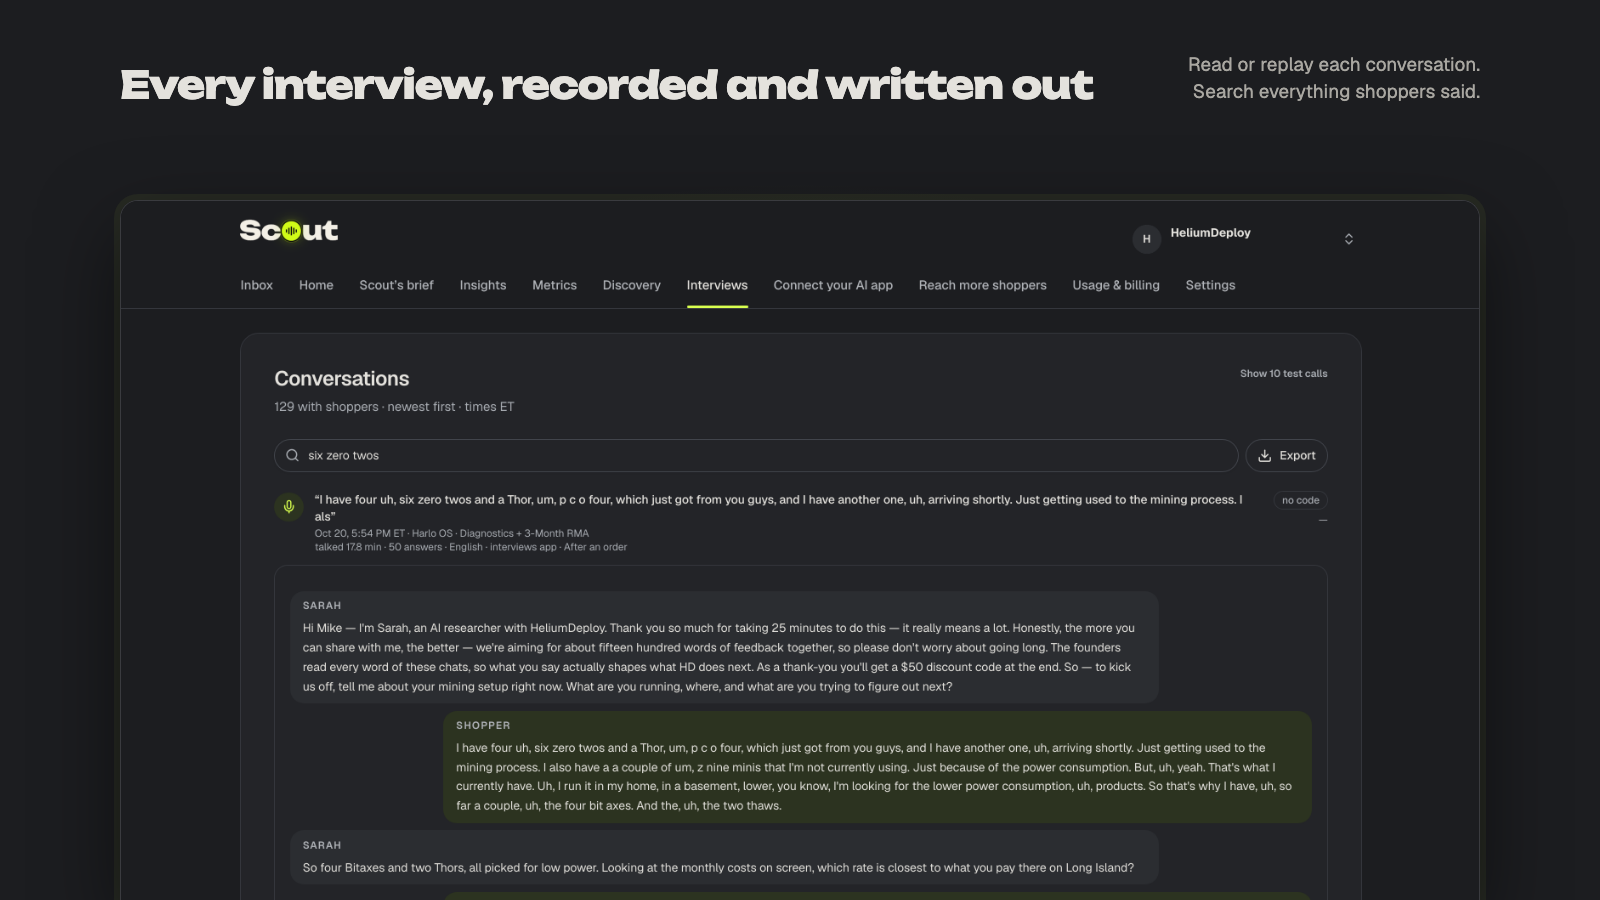
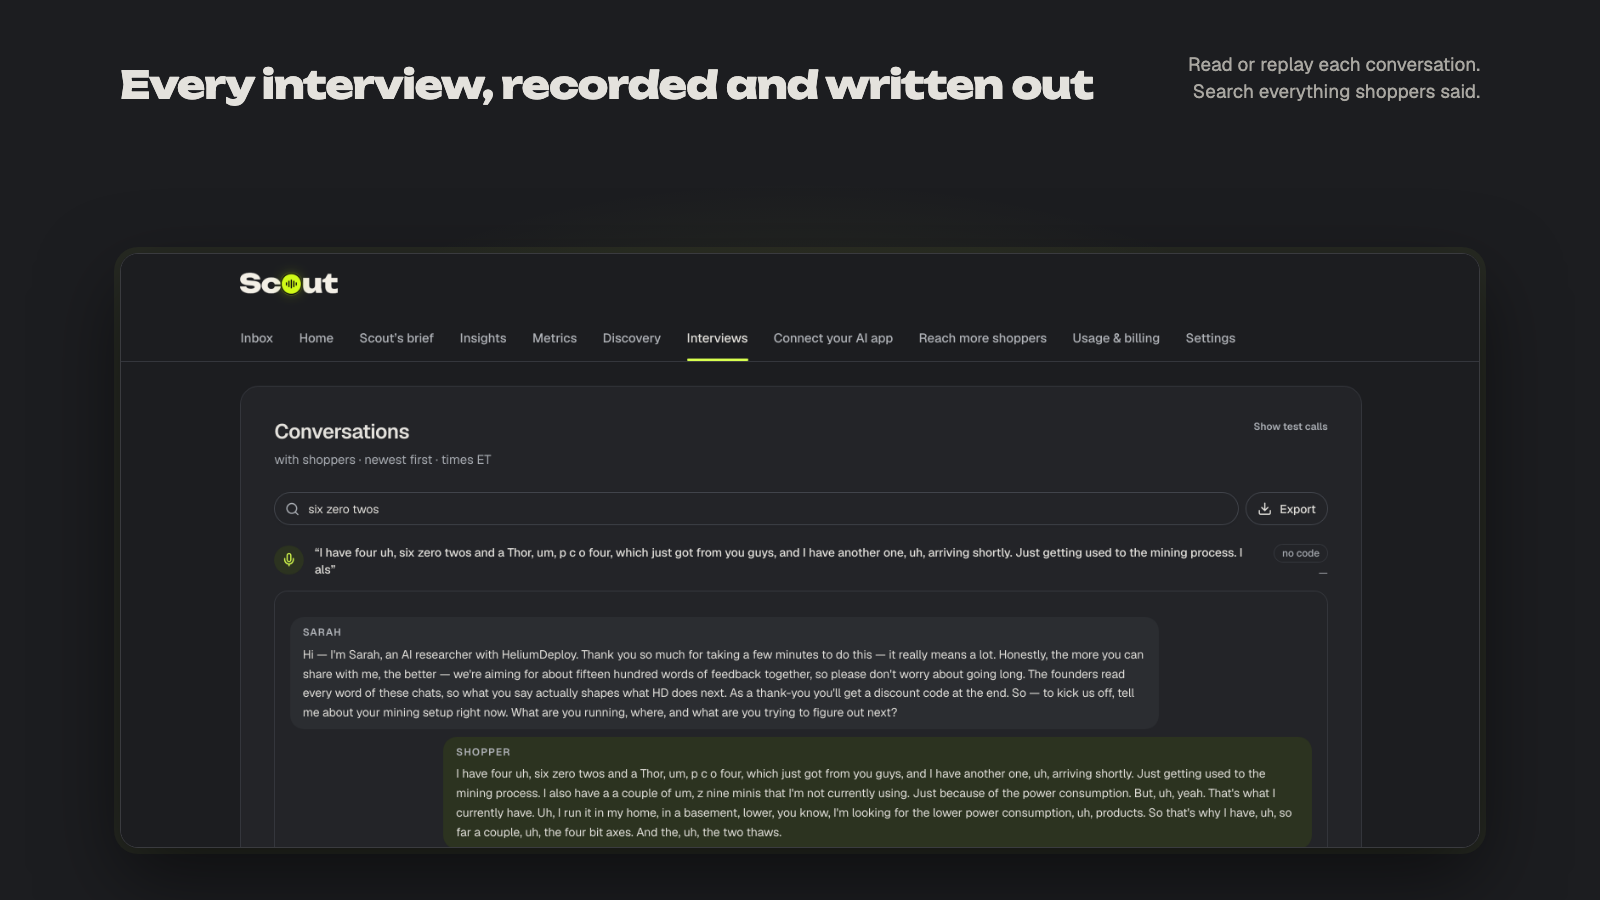
Kit: media without numbers, dates or shopper data (Shopify 4.3.4)

diff --git a/index.html b/index.html
@@ -19,10 +19,10 @@ table{width:100%;border-collapse:collapse;background:var(--card);border:1px soli
 </style></head><body><main>
 <div class="hero"><img src="icon-1200.png" alt="Scout app icon"><div><b>Scout: Customer Interviews</b><p>Shopify App Store kit · Nov 15, 2026<br><b>Not submitted yet.</b> A draft is saved in the Partner Dashboard (Nov 15). Ready: listing text, the submission fields, data answers. Still to do: deploy the Scout version (app config, privacy webhooks, policy pages), then shoot the 6 screenshots, feature image and demo video, fill pricing, then submit.</p></div></div>
 <nav class="jump"><a href="#final4"><b>Final 4 fields</b></a><a href="#steps">Steps to ship</a><a href="#assets">Assets</a><a href="#listing">Listing form</a><a href="#submission">Submission form</a><a href="#pricing">Pricing</a><a href="#data">Protected customer data request</a><a href="#contact">Emergency contact</a><a href="#answers">Customer data answers</a></nav><h2 id="final4">Final 4 fields (Nov 16): ready to upload, save as draft, do not Submit</h2>
-<p class="lead">Made from the Scout owner app on HeliumDeploy's real data (109 coded interviews, 129 calls; shoppers as first name + last initial). No prices in any image, no browser frame, no Shopify logo. 1600 × 900, Shopify's size for both.</p>
-<h3>1. Feature media (image)</h3><div class="assets"><div class="a"><a href="media/scout-feature-1600x900.png"><img src="media/scout-feature-1600x900.png" alt="Scout: Hear why shoppers buy, or don't. A Scout's brief card with a shopper's quote." loading="lazy"></a><p><b>Feature image</b> · 1600 × 900 PNG · <a href="media/scout-feature-1600x900.png" download>Download</a></p></div></div>
+<p class="lead">Made from the Scout owner app on HeliumDeploy's real data, then cleaned for Shopify rule 4.3.4 (Nov 17): no numbers, counts, dates, outcomes or shopper names anywhere in the pixels. No prices, no browser frame, no Shopify logo. 1600 × 900, Shopify's size for both.</p>
+<h3>1. Feature media (image)</h3><div class="assets"><div class="a"><a href="media/scout-feature-1600x900.png?v=1117"><img src="media/scout-feature-1600x900.png?v=1117" alt="Scout: Hear why shoppers buy, or don't. A Scout's brief card with a shopper's quote." loading="lazy"></a><p><b>Feature image</b> · 1600 × 900 PNG · <a href="media/scout-feature-1600x900.png?v=1117" download>Download</a></p></div></div>
 <div class="f"><div class="fl"><b>Feature image alt text</b><button onclick="cp(this)">Copy</button></div><div class="fv">Scout headline “Hear why shoppers buy, or don&#x27;t” next to a Scout&#x27;s brief card quoting a real shopper interview.</div></div>
-<h3>2. Screenshots (5, in this order)</h3><div class="assets"><div class="a"><a href="media/scout-screenshot-1.png"><img src="media/scout-screenshot-1.png" alt="Scout Insights page: shopper themes ranked by how many of 109 interviews mentioned them, with quotes from shoppers." loading="lazy"></a><p><b>Screenshot 1</b> · See what shoppers say most · 1600 × 900 PNG · <a href="media/scout-screenshot-1.png" download>Download</a></p><p>Alt text: Scout Insights page: shopper themes ranked by how many of 109 interviews mentioned them, with quotes from shoppers.</p></div><div class="a"><a href="media/scout-screenshot-2.png"><img src="media/scout-screenshot-2.png" alt="Scout&#x27;s brief: the top pattern from shopper interviews, with how many shoppers said it and a quote in their own words." loading="lazy"></a><p><b>Screenshot 2</b> · Your next move, in shoppers&#x27; words · 1600 × 900 PNG · <a href="media/scout-screenshot-2.png" download>Download</a></p><p>Alt text: Scout&#x27;s brief: the top pattern from shopper interviews, with how many shoppers said it and a quote in their own words.</p></div><div class="a"><a href="media/scout-screenshot-3.png"><img src="media/scout-screenshot-3.png" alt="Interviews page: a list of shopper voice interviews with one call opened to its full transcript." loading="lazy"></a><p><b>Screenshot 3</b> · Every interview, recorded and written out · 1600 × 900 PNG · <a href="media/scout-screenshot-3.png" download>Download</a></p><p>Alt text: Interviews page: a list of shopper voice interviews with one call opened to its full transcript.</p></div><div class="a"><a href="media/scout-screenshot-4.png"><img src="media/scout-screenshot-4.png" alt="Interview settings: the banner shoppers see, who is invited, where, the discount reward and what the interviews dig into." loading="lazy"></a><p><b>Screenshot 4</b> · You decide what Scout digs into · 1600 × 900 PNG · <a href="media/scout-screenshot-4.png" download>Download</a></p><p>Alt text: Interview settings: the banner shoppers see, who is invited, where, the discount reward and what the interviews dig into.</p></div><div class="a"><a href="media/scout-screenshot-5.png"><img src="media/scout-screenshot-5.png" alt="Scout Home: the setup checklist from install to Scout&#x27;s first look at the store." loading="lazy"></a><p><b>Screenshot 5</b> · Set up in about five minutes · 1600 × 900 PNG · <a href="media/scout-screenshot-5.png" download>Download</a></p><p>Alt text: Scout Home: the setup checklist from install to Scout&#x27;s first look at the store.</p></div></div>
+<h3>2. Screenshots (5, in this order)</h3><div class="assets"><div class="a"><a href="media/scout-screenshot-1.png?v=1117"><img src="media/scout-screenshot-1.png?v=1117" alt="Insights page: shopper themes ranked by interviews, with quotes" loading="lazy"></a><p><b>Screenshot 1</b> · See what shoppers say most · 1600 × 900 PNG · <a href="media/scout-screenshot-1.png?v=1117" download>Download</a></p><p>Alt text: Insights page: shopper themes ranked by interviews, with quotes</p></div><div class="a"><a href="media/scout-screenshot-2.png?v=1117"><img src="media/scout-screenshot-2.png?v=1117" alt="Scout&#x27;s brief: top pattern from interviews with a shopper quote" loading="lazy"></a><p><b>Screenshot 2</b> · Your next move, in shoppers&#x27; words · 1600 × 900 PNG · <a href="media/scout-screenshot-2.png?v=1117" download>Download</a></p><p>Alt text: Scout&#x27;s brief: top pattern from interviews with a shopper quote</p></div><div class="a"><a href="media/scout-screenshot-3.png?v=1117"><img src="media/scout-screenshot-3.png?v=1117" alt="Interviews list with one call opened to its full transcript" loading="lazy"></a><p><b>Screenshot 3</b> · Every interview, recorded and written out · 1600 × 900 PNG · <a href="media/scout-screenshot-3.png?v=1117" download>Download</a></p><p>Alt text: Interviews list with one call opened to its full transcript</p></div><div class="a"><a href="media/scout-screenshot-4.png?v=1117"><img src="media/scout-screenshot-4.png?v=1117" alt="Interview settings: banner, who is invited, reward and focus" loading="lazy"></a><p><b>Screenshot 4</b> · You decide what Scout digs into · 1600 × 900 PNG · <a href="media/scout-screenshot-4.png?v=1117" download>Download</a></p><p>Alt text: Interview settings: banner, who is invited, reward and focus</p></div><div class="a"><a href="media/scout-screenshot-5.png?v=1117"><img src="media/scout-screenshot-5.png?v=1117" alt="Scout Home: setup checklist from install to first look" loading="lazy"></a><p><b>Screenshot 5</b> · Set up in about five minutes · 1600 × 900 PNG · <a href="media/scout-screenshot-5.png?v=1117" download>Download</a></p><p>Alt text: Scout Home: setup checklist from install to first look</p></div></div>
 <h3>3. Screencast URL</h3><div class="assets"><div class="a"><video src="media/scout-screencast.mp4" controls preload="metadata" playsinline style="width:100%;border-radius:10px;display:block"></video><p><b>Screencast</b> · 1:12 · 1600 × 900 MP4 · captions in English, no narration · <a href="media/scout-screencast.mp4" download>Download</a></p></div></div>
 <div class="f"><div class="fl"><b>Screencast URL</b><button onclick="cp(this)">Copy</button></div><div class="fv">https://qysj9qcnkf-rgb.github.io/scout-appstore-kit/media/scout-screencast.mp4</div></div>
 <p class="lead" style="margin-top:6px">Shows: install → Scout reads the store → switch on in the theme → turn on interviews (who, where, reward, what to dig into) → Go live → every call recorded and written out → one real call opened → Scout's brief → ranked insights. If the form only takes YouTube or Vimeo links, stop and say so; don't upload elsewhere.</p>
